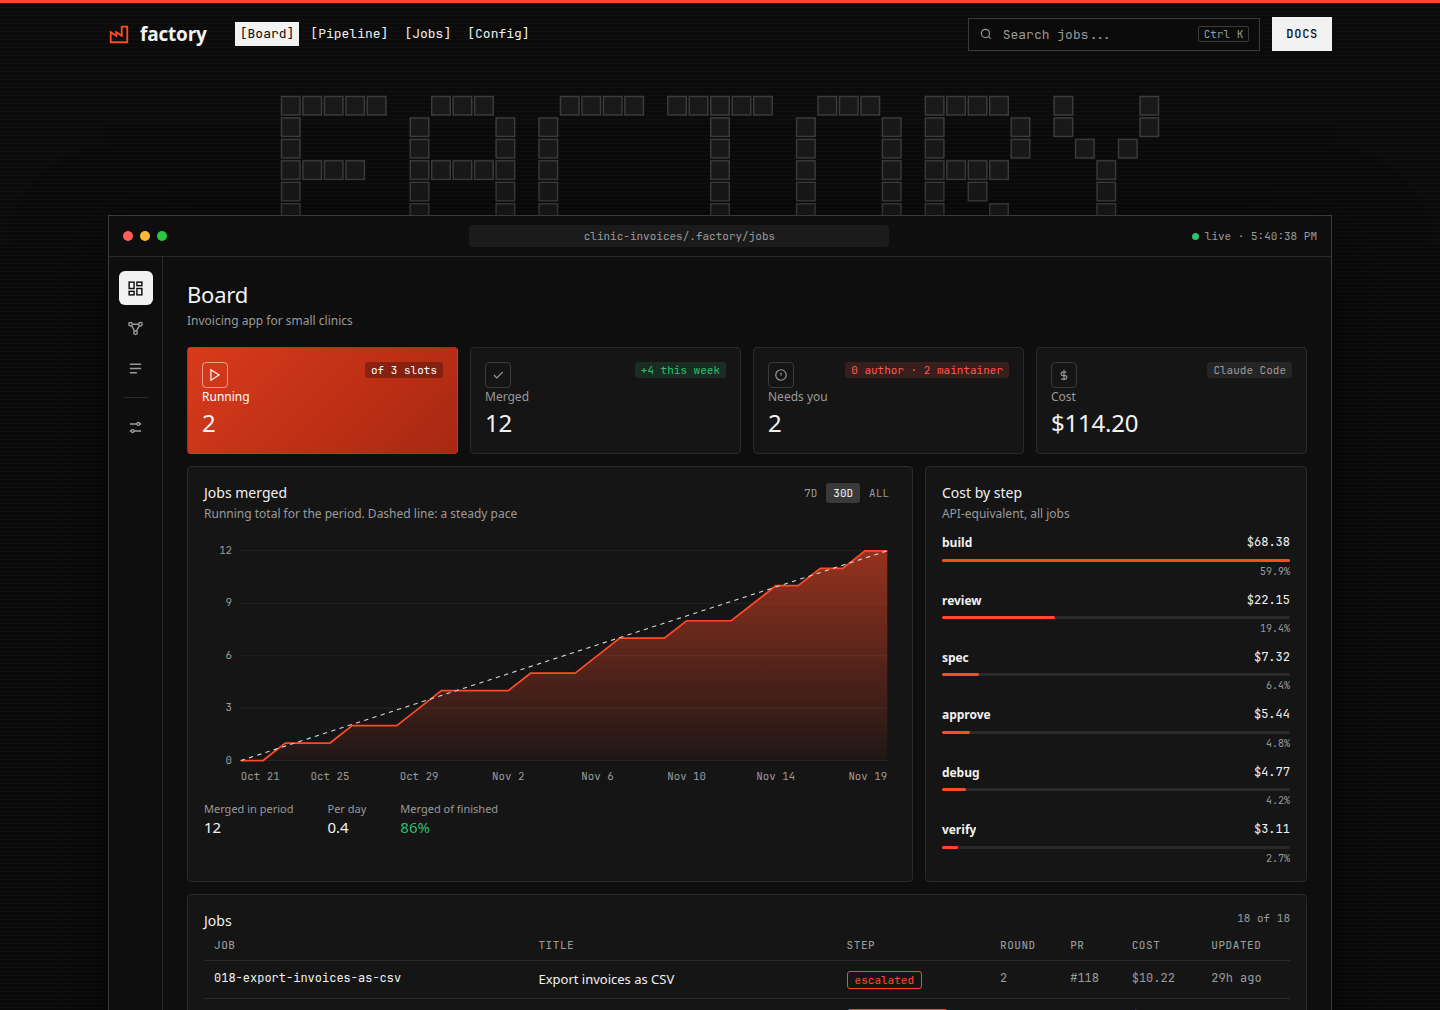
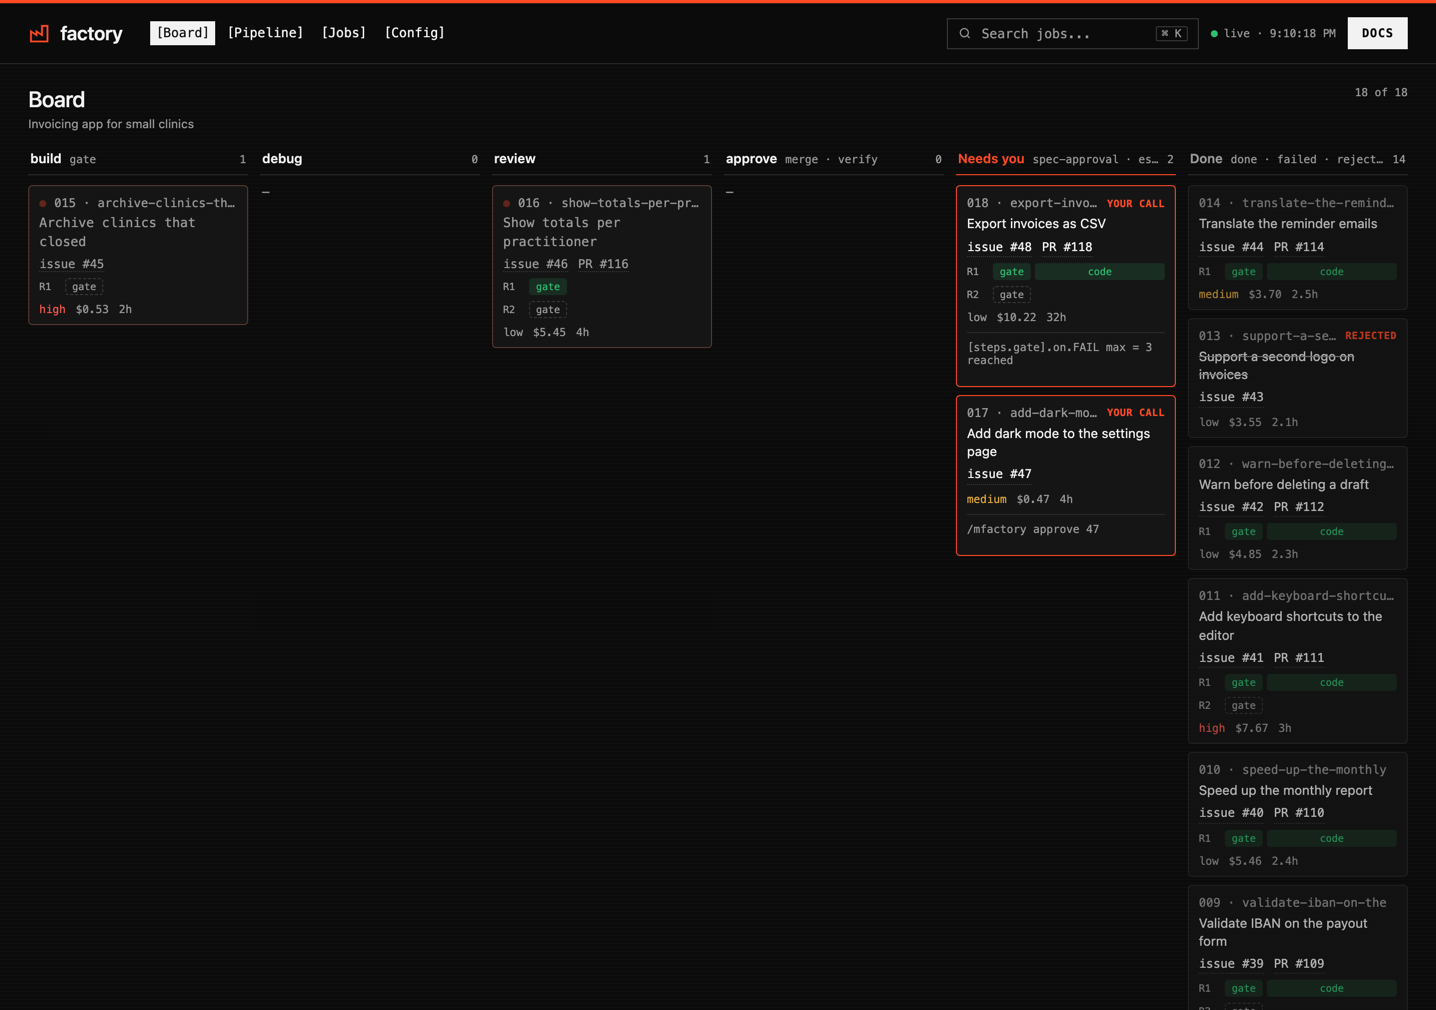
Refresh the README dashboard screenshots.
The board is a kanban now, and the old shots still showed the metrics page.
Sample jobs publish a graph so the pictures match make sample-dashboard.

diff --git a/web/dashboard.css b/web/dashboard.css
@@ -104,7 +104,7 @@ h2 { font: 500 14px var(--sans); margin: 0; }
 
 /* ---- kanban ---- */
 .kanban { display: flex; gap: 12px; align-items: flex-start; overflow-x: auto; padding-bottom: 8px; }
-.kcol { flex: 0 0 220px; min-width: 220px; }
+.kcol { flex: 0 0 220px; width: 220px; min-width: 220px; max-width: 220px; }
 .kcol-head { display: flex; align-items: baseline; gap: 8px; padding: 0 2px 8px; border-bottom: 1px solid var(--line); margin-bottom: 10px; }
 .kcol-head h3 { margin: 0; font: 600 13px var(--sans); flex: none; }
 .kcol-head .who { min-width: 0; overflow: hidden; text-overflow: ellipsis; white-space: nowrap; font: 11px var(--mono); color: var(--muted); }
@@ -123,7 +123,7 @@ h2 { font: 500 14px var(--sans); margin: 0; }
 .kcard .card-top { display: flex; align-items: center; gap: 8px; margin-bottom: 4px; }
 .kcard .num { min-width: 0; overflow: hidden; text-overflow: ellipsis; white-space: nowrap; font: 12px var(--mono); color: var(--muted); }
 .kcard .flag { margin-left: auto; font: 600 10px var(--mono); letter-spacing: .04em; text-transform: uppercase; color: var(--accent); white-space: nowrap; }
-.kcard .feature { font-size: 13px; line-height: 1.4; margin: 0 0 6px; overflow-wrap: anywhere; }
+.kcard .feature { font-size: 13px; line-height: 1.4; margin: 0 0 6px; white-space: normal; overflow-wrap: anywhere; }
 .kcard .links { display: flex; flex-wrap: wrap; gap: 8px 10px; }
 .kcard .meta { display: flex; flex-wrap: wrap; gap: 8px 10px; margin-top: 8px; font: 11px var(--mono); color: var(--muted); }
 .kcard .meta .hot { color: var(--bad); }

diff --git a/tests/sample_dashboard.py b/tests/sample_dashboard.py
@@ -19,7 +19,12 @@ from pathlib import Path
 ROOT = Path(__file__).resolve().parents[1]
 sys.path.insert(0, str(ROOT / "core" / "lib"))
 
+from modfactory.config import as_json as config_as_json  # noqa: E402
+from modfactory.config import load  # noqa: E402
+from modfactory.fleet.jobs import file_rows  # noqa: E402
 from modfactory.fleet.service import serve_one  # noqa: E402
+from modfactory.graph import as_json as graph_as_json  # noqa: E402
+from modfactory.util import version  # noqa: E402
 
 CONFIG = """\
 schema = 1
@@ -140,6 +145,39 @@ def make(jobs_dir, number, title, stop, days_ago, rng, waiting=None, detour=Fals
         (folder / "decision.md").write_text("DECISION: APPROVE\n\n## Why\nEvery criterion is met.\n")
 
 
+def publish(repo: Path, jobs_dir: Path) -> None:
+    """Write the files the dashboard reads, and a stub CLI so the queue stays quiet."""
+    cfg = load(repo)
+    jobs: list[dict[str, object]] = []
+    for child in sorted(jobs_dir.iterdir()):
+        job_file: Path = child / "job.json"
+        if not job_file.is_file():
+            continue
+        loaded: object = json.loads(job_file.read_text())
+        if not isinstance(loaded, dict):
+            continue
+        loaded["files"] = file_rows(child)
+        jobs.append(loaded)
+    project: object = cfg["project"]
+    labels: object = cfg["labels"]
+    index: dict[str, object] = {
+        "generated_at": stamp(datetime.now(UTC)),
+        "version": version(),
+        "project": project if isinstance(project, dict) else {},
+        "repo": repo.name,
+        "tools": list(cfg.tools),
+        "labels": labels if isinstance(labels, dict) else {},
+        "jobs": jobs,
+    }
+    (jobs_dir / "index.json").write_text(json.dumps(index, indent=1) + "\n")
+    (jobs_dir / "graph.json").write_text(json.dumps(graph_as_json(cfg), indent=1) + "\n")
+    (jobs_dir / "config.json").write_text(json.dumps(config_as_json(cfg), indent=1) + "\n")
+    binary: Path = repo / ".factory" / "bin" / "mfactory"
+    binary.parent.mkdir(parents=True, exist_ok=True)
+    binary.write_text("#!/bin/sh\nexit 0\n")
+    binary.chmod(0o755)
+
+
 def main():
     parser = argparse.ArgumentParser(description=__doc__.splitlines()[0])
     parser.add_argument("--port", type=int, default=4747)
@@ -160,6 +198,7 @@ def main():
             plan += [("spec-approval", 0, "maintainer", False), ("escalated", 1, "maintainer", True)]
             for number, (stop, days_ago, waiting, detour) in enumerate(plan, 1):
                 make(jobs_dir, number, TITLES[(number - 1) % len(TITLES)], stop, days_ago, rng, waiting, detour)
+        publish(repo, jobs_dir)
         serve_one(repo, args.port, open_browser=False)
 
 
